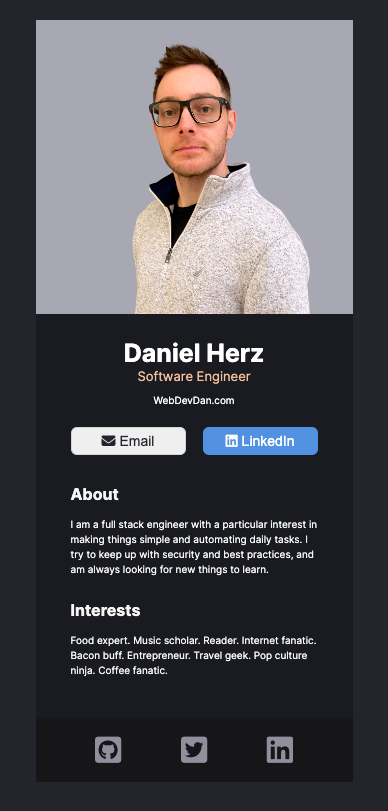
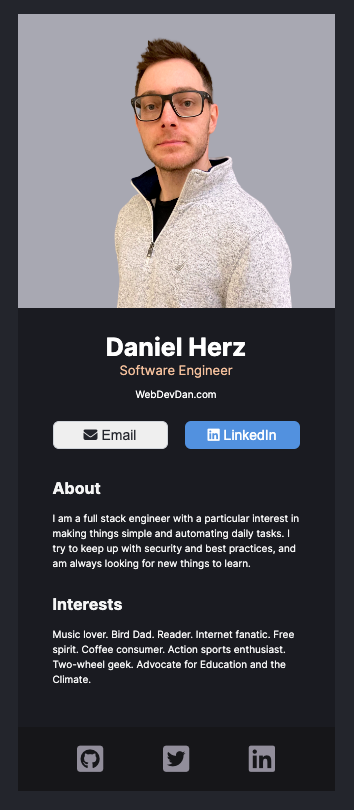
Digital Card updates

diff --git a/react-digital-business-card/components/Interests.jsx b/react-digital-business-card/components/Interests.jsx
@@ -4,7 +4,7 @@ export default function Interests() {
   return (
     <div className="interests-container">
       <h2>Interests</h2>
-      <p>Food expert. Music scholar. Reader. Internet fanatic. Bacon buff. Entrepreneur. Travel geek. Pop culture ninja. Coffee fanatic.</p>
+      <p>Music lover. Bird Dad. Reader. Internet fanatic. Free spirit. Coffee consumer. Action sports enthusiast. Two-wheel geek. Advocate for Education and the Climate.</p>
     </div>
   )
 }

diff --git a/react-digital-business-card/index.jsx b/react-digital-business-card/index.jsx
@@ -1,13 +1,6 @@
 import React from 'react'
 import ReactDOM from 'react-dom'
 import App from './App'
-// import './index.css'
-
-// ReactDOM.createRoot(document.getElementById('root')).render(
-//   <React.StrictMode>
-//     <App />
-//   </React.StrictMode>,
-// )
 
 
 ReactDOM.render(<App />, document.getElementById("root"))

diff --git a/react-digital-business-card/components/Header.jsx b/react-digital-business-card/components/Header.jsx
@@ -5,7 +5,7 @@ import HeadShot from "../images/headshot.png"
 function Header() {
   return (
     <div>
-      <img className="headshot" src={HeadShot} />
+      <img className="headshot" src={HeadShot} alt="Portrait headshot"/>
     </div>
   )
 }
